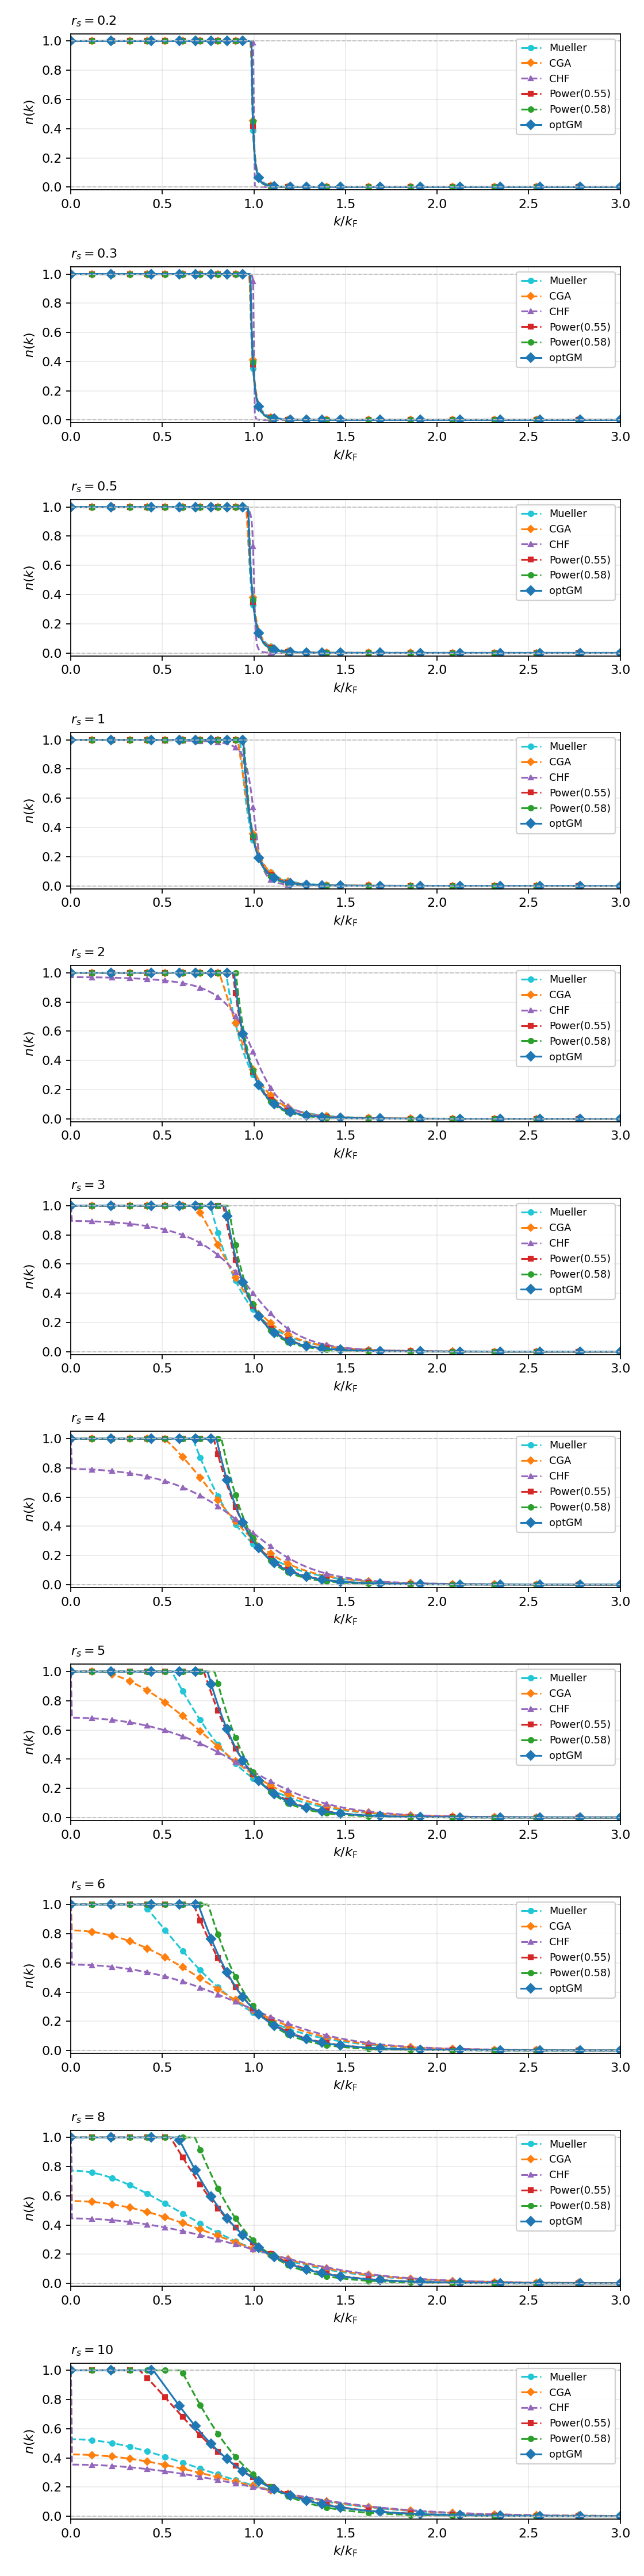
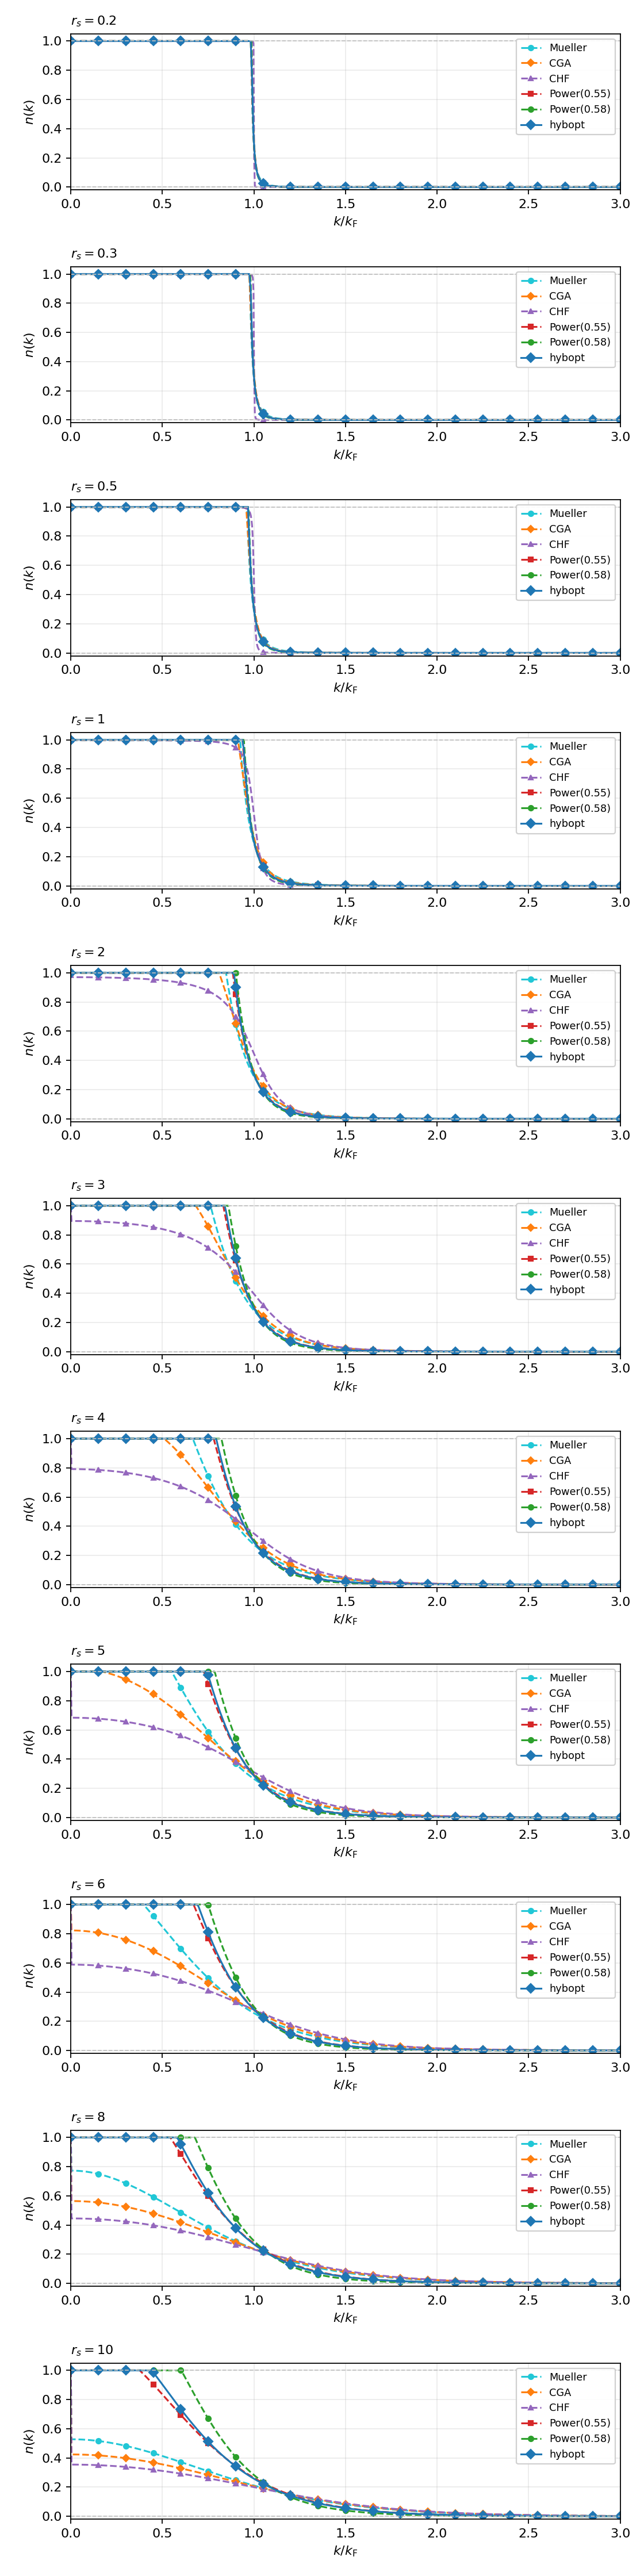
Refactor optGM to HybOpt and update related components
- Renamed the optGM functional to HybOpt, reflecting its hybrid HF/Power nature in the codebase and documentation.
- Updated the Makefile to replace optGM targets with HybOpt, including adjustments to plotting scripts and data exports.
- Removed obsolete optGM data files and scripts, ensuring a cleaner project structure.
- Enhanced README documentation to clarify the new HybOpt functional and its usage, including legacy support for optGM.
- Updated plotting scripts to visualize HybOpt results, ensuring consistency across functionals.

These changes streamline the RDMFT framework, providing clearer functional definitions and improving usability for users working with hybrid functionals.

diff --git a/include/Functional.hpp b/include/Functional.hpp
@@ -375,7 +375,7 @@ private:
     double w1_, w2_, w3_;
 };
 
-// optGM: convex mixture of the HF pair kernel and the Power pair kernel
+// HybOpt (hybrid HF/Power): convex mixture of the HF pair kernel and Power pair kernel
 //
 //     K(n_i, n_j) = (1 - lambda) * n_i n_j
 //                 + lambda * n_i^alpha * n_j^alpha,
@@ -384,11 +384,12 @@ private:
 // ``HFFunctional`` / ``PowerFunctional``.  ``lambda`` is clamped to ``[0, 1]``;
 // ``alpha`` must be positive (also capped in the ctor for numerical safety).
 //
-// CLI: ``OptGM@lambda;alpha`` (one semicolon, two floats).  Solved via the generic
-// projected-gradient branch in ``solve_rdmft`` (symmetric non-factorizable kernel).
-class OptGMFunctional : public Functional {
+// CLI: ``HybOpt@lambda;alpha`` (one semicolon, two floats).  Legacy ``OptGM@...``
+// is accepted as an alias.  Solved via the specialized HF/Power-mix branch in
+// ``solve_rdmft``.
+class HybOptFunctional : public Functional {
 public:
-    explicit OptGMFunctional(double lambda, double alpha) {
+    explicit HybOptFunctional(double lambda, double alpha) {
         if (lambda < 0.0)       lambda_ = 0.0;
         else if (lambda > 1.0) lambda_ = 1.0;
         else                   lambda_ = lambda;
@@ -405,7 +406,7 @@ public:
 
     std::string name() const override {
         char buf[96];
-        std::snprintf(buf, sizeof(buf), "optGM(lam=%.4g,alpha=%.4g)", lambda_, alpha_);
+        std::snprintf(buf, sizeof(buf), "hybopt(lam=%.4g,alpha=%.4g)", lambda_, alpha_);
         return std::string(buf);
     }
     double f(double n) const override {
@@ -584,12 +585,20 @@ inline std::unique_ptr<Functional> make_functional(const std::string& key,
         }
         return nullptr;
     }
-    // OptGM@lambda;alpha — HF / Power(alpha) mixture weight and Power exponent.
+    // HybOpt@lambda;alpha — HF / Power(alpha) mixture (legacy OptGM@ accepted).
+    if (key.rfind("HybOpt@", 0) == 0) {
+        const std::string rest = key.substr(8);
+        double lam = 0.0, al = 0.55;
+        if (std::sscanf(rest.c_str(), "%lf;%lf", &lam, &al) == 2) {
+            return std::make_unique<HybOptFunctional>(lam, al);
+        }
+        return nullptr;
+    }
     if (key.rfind("OptGM@", 0) == 0) {
         const std::string rest = key.substr(6);
         double lam = 0.0, al = 0.55;
         if (std::sscanf(rest.c_str(), "%lf;%lf", &lam, &al) == 2) {
-            return std::make_unique<OptGMFunctional>(lam, al);
+            return std::make_unique<HybOptFunctional>(lam, al);
         }
         return nullptr;
     }

diff --git a/include/Solver.hpp b/include/Solver.hpp
@@ -257,7 +257,7 @@ update_occupations_geo(double mu,
     return n;
 }
 
-// OptGM: K = c1 n_i n_j + c2 n_i^alpha n_j^alpha with c1 = 1-lambda, c2 = lambda.
+// HybOpt (HF/Power mix): K = c1 n_i n_j + c2 n_i^alpha n_j^alpha with c1 = 1-lambda, c2 = lambda.
 // EL per orbital: c1 f1'(n) U1 + c2 f2'(n) U2 = pi k (k^2/2 - mu), f1=n, f2=n^alpha.
 // For 0 < alpha < 1 and U1, U2 >= 0 the LHS is strictly decreasing in n on (0,1).
 inline std::vector<double>
@@ -442,7 +442,7 @@ inline std::vector<double> compute_U_with(const std::vector<double>& nv,
 }
 
 // Smeared initial guess: a sigmoid centred at the Fermi wave vector, which
-// helps Beta, CGA / CHF, GEO, optGeo, and optGM (HF/Power mix, PGD) escape a trivial HF-step-like fixed
+// helps Beta, CGA / CHF, GEO, optGeo, and hybopt (HF/Power mix) escape a trivial HF-step-like fixed
 // point.  width controls the fractional smearing relative to k_F.
 inline std::vector<double>
 initial_smeared(double rs, const Grid& g, double width = 0.10) {
@@ -458,7 +458,7 @@ initial_smeared(double rs, const Grid& g, double width = 0.10) {
 
 // Self-consistent solve for any Functional.  Power-family functionals use the
 // closed-form occupation update; CGA, CHF, and Beta use the additive branch
-// with a dedicated 1-D inverter; BBC1, BBC3, GEO / optGeo, and optGM use projected
+// with a dedicated 1-D inverter; BBC1, BBC3, GEO / optGeo, and hybopt use projected
 // gradient.  All branches bisect on mu for particle conservation.
 //
 // Beta, CGA, and CHF can show a competing HF-like minimum; we therefore try
@@ -492,7 +492,7 @@ solve_rdmft(double rs,
     // generic projected-gradient branch below (no special-case here).
     const GEOFunctional*    geo       = dynamic_cast<const GEOFunctional*>(&F);
     const OptGeoFunctional* optgeo    = dynamic_cast<const OptGeoFunctional*>(&F);
-    const OptGMFunctional* optgm = dynamic_cast<const OptGMFunctional*>(&F);
+    const HybOptFunctional* hybopt = dynamic_cast<const HybOptFunctional*>(&F);
     const BBC3Functional*   bbc3      = dynamic_cast<const BBC3Functional*>(&F);
 
     double alpha = 1.0;
@@ -512,9 +512,9 @@ solve_rdmft(double rs,
     // occupied initial conditions.  For factorized and generic functionals
     // one start (sharp step) is enough.
     // Smeared multi-start helps additive CGA / CHF / Beta and GEO / optGeo /
-    // optGM / BBC3 escape the trivial HF-step fixed point.
+    // hybopt / BBC3 escape the trivial HF-step fixed point.
     const bool needs_multistart = additive || (geo != nullptr)
-                                  || (optgeo != nullptr) || (optgm != nullptr)
+                                  || (optgeo != nullptr) || (hybopt != nullptr)
                                   || (bbc3 != nullptr);
     const std::vector<std::pair<bool, double>> starts = needs_multistart
         ? std::vector<std::pair<bool, double>>{
@@ -583,9 +583,9 @@ solve_rdmft(double rs,
             auto U = compute_U(n);
             mu = bisect_mu_factorized(U);
             n_target = update_occupations_power(alpha, mu, U, g);
-        } else if (optgm) {
-            const double lam = optgm->lambda_mix();
-            const double al = optgm->alpha();
+        } else if (hybopt) {
+            const double lam = hybopt->lambda_mix();
+            const double al = hybopt->alpha();
             auto f_pow = [al](double nn) {
                 const double eps = 1.0e-14;
                 const double x = (nn > 0.0) ? nn : 0.0;
@@ -596,7 +596,7 @@ solve_rdmft(double rs,
             auto U2 = compute_U_with(n, g, W, f_pow);
             const double c1 = 1.0 - lam;
             const double c2 = lam;
-            auto bisect_mu_optgm = [&]() {
+            auto bisect_mu_hybopt = [&]() {
                 double lo = opt.mu_lo, hi = opt.mu_hi;
                 for (int b = 0; b < opt.bisect_iter; ++b) {
                     const double m = 0.5 * (lo + hi);
@@ -606,7 +606,7 @@ solve_rdmft(double rs,
                 }
                 return 0.5 * (lo + hi);
             };
-            mu = bisect_mu_optgm();
+            mu = bisect_mu_hybopt();
             n_target = update_occupations_hf_power_mix(mu, U1, U2, g, c1, c2, al);
         } else if (geo || optgeo) {
             // Multi-power GEO / optGeo kernel: build U1, U2, U3 with f1(n) = n,

diff --git a/scripts/plot_common.py b/scripts/plot_common.py
@@ -1,19 +1,20 @@
 """Shared curve list and styles for correlation-energy and n(k) figures.
 
-``WANTED_SERIES`` / ``WANTED_SET`` define which functionals appear in both plots.
+``WANTED_SERIES`` / ``WANTED_SET`` define which functionals appear in both plots
+(Müller, CGA, CHF, Power curves, hybopt = HybOpt HF/Power mix).
 """
 
 from __future__ import annotations
 
 # Curves (after Monte Carlo / PW92), fixed order for legends.
-# optGM last so it is drawn on top (z-order highlight) and appears last in the legend.
+# hybopt last so it is drawn on top (z-order highlight) and appears last in the legend.
 WANTED_SERIES = (
     "Mueller",
     "CGA",
     "CHF",
     "Power(0.55)",
     "Power(0.58)",
-    "optGM",
+    "hybopt",
 )
 
 WANTED_SET = frozenset(WANTED_SERIES)
@@ -21,7 +22,7 @@ WANTED_SET = frozenset(WANTED_SERIES)
 MONTE_CARLO_LABEL = "Monte Carlo (PW92)"
 
 # (color, linestyle, marker); marker None => no markers on line.
-# RDMFT curves use dashed lines; Monte Carlo solid black; optGM solid blue (highlight).
+# RDMFT curves use dashed lines; Monte Carlo solid black; hybopt solid blue (highlight).
 SUBSET_STYLE: dict[str, tuple[str | None, str, str | None]] = {
     MONTE_CARLO_LABEL: ("black", "-", None),
     "Mueller": ("#21c7d6", "--", "o"),
@@ -29,7 +30,7 @@ SUBSET_STYLE: dict[str, tuple[str | None, str, str | None]] = {
     "CHF": ("#9467bd", "--", "^"),
     "optGeo": ("#006400", "--", "h"),
     # Solid blue + diamonds + drawn last (stands out vs dashed RDMFT curves).
-    "optGM": ("#1f77b4", "-", "D"),
+    "hybopt": ("#1f77b4", "-", "D"),
     "Power(0.55)": ("#d62728", "--", "s"),
     "Power(0.58)": ("#2ca02c", "--", "o"),
 }
@@ -45,12 +46,14 @@ def pretty_functional_name(fn: str) -> str:
             return fn
     if fn.startswith("optGeo("):
         return "optGeo"
+    if fn.startswith("hybopt("):
+        return "hybopt"
     if fn.startswith("optGMw("):
-        return "optGM"
+        return "hybopt"
     if fn.startswith("optGM("):
-        # optGM(lam=...,alpha=...). Old: optGM(a=,b=,c=) optGeo-style labels; w_hf= obsolete triple-weight.
+        # hybopt(lam=...,alpha=...) legacy optGM label; optGM(a=,b=,c=) optGeo-style.
         if "lam=" in fn or "alpha=" in fn or "w_hf=" in fn or ("hole=" in fn and "lam=" not in fn):
-            return "optGM"
+            return "hybopt"
         return "optGeo"
     return fn
 

diff --git a/src/main.cpp b/src/main.cpp
@@ -57,10 +57,11 @@ void print_help() {
         "  --rs <list>          comma-separated rs values\n"
         "  --funcs <list>       **required** comma-separated functionals\n"
         "                       (HF, Mueller, GU, CGA, CHF, BBC1, BBC3, GEO,\n"
-        "                        OptGeo@<a>;<b>;<c>, OptGM@lambda;alpha, Power@<alpha>, Beta@<beta>)\n"
+        "                        OptGeo@<a>;<b>;<c>, HybOpt@lambda;alpha, Power@<alpha>, Beta@<beta>)\n"
         "                       OptGeo: GEO-style three channels; three angles (two ';').\n"
-        "                       OptGM: (1-lambda) HF + lambda Power(alpha); two floats (one ';').\n"
-        "                       Shell: quote keys that contain ';' (e.g. --funcs 'OptGM@0.4;0.56').\n"
+        "                       HybOpt: (1-lambda) HF + lambda Power(alpha); two floats (one ';').\n"
+        "                       Shell: quote keys that contain ';' (e.g. --funcs 'HybOpt@0.4;0.56').\n"
+        "                       OptGM@... is accepted as a legacy alias for HybOpt@....\n"
         "  --N <int>            #grid points (odd, default 801)\n"
         "  --kmax <float>       k_max = factor * k_F(r_s) at each r_s (default 3)\n"
         "  --out-dir <dir>      directory for per-functional TSVs (default data)\n"
@@ -120,7 +121,8 @@ std::unique_ptr<Functional> make(const std::string& key) {
         double beta = std::stod(key.substr(5));
         return std::make_unique<BetaFunctional>(beta);
     }
-    if (key.rfind("OptGeo@", 0) == 0 || key.rfind("OptGM@", 0) == 0) {
+    if (key.rfind("OptGeo@", 0) == 0 || key.rfind("HybOpt@", 0) == 0
+        || key.rfind("OptGM@", 0) == 0) {
         return make_functional(key);
     }
     return make_functional(key);

diff --git a/scripts/plot_results.py b/scripts/plot_results.py
@@ -2,7 +2,7 @@
 """Plot RDMFT correlation energies vs rs from per-functional TSVs.
 
 Reads ``*.tsv`` files under ``--in`` and overlays the PW92 QMC reference with
-Müller, CGA, CHF, optGM, Power(0.55/0.58) (see ``plot_common.WANTED_SERIES``).
+Müller, CGA, CHF, hybopt, Power(0.55/0.58) (see ``plot_common.WANTED_SERIES``).
 Only rows with ``converged == 1`` are plotted (non-converged SCF points are dropped).
 The directory layout matches the rdmft_heg driver:
 
@@ -164,7 +164,7 @@ def main():
             marker=mk,
             label=name,
             linewidth=1.5,
-            markersize=6 if name == "optGM" else 5,
+            markersize=6 if name == "hybopt" else 5,
         )
 
     apply_rs_ticks(ax, series, qmc_rs)

diff --git a/scripts/plot_nk.py b/scripts/plot_nk.py
@@ -262,7 +262,7 @@ def main() -> None:
                 color=c,
                 marker=mk,
                 markevery=max(1, len(x) // 20),
-                markersize=5 if key == "optGM" else 4,
+                markersize=5 if key == "hybopt" else 4,
                 linewidth=1.4,
                 label=key,
             )